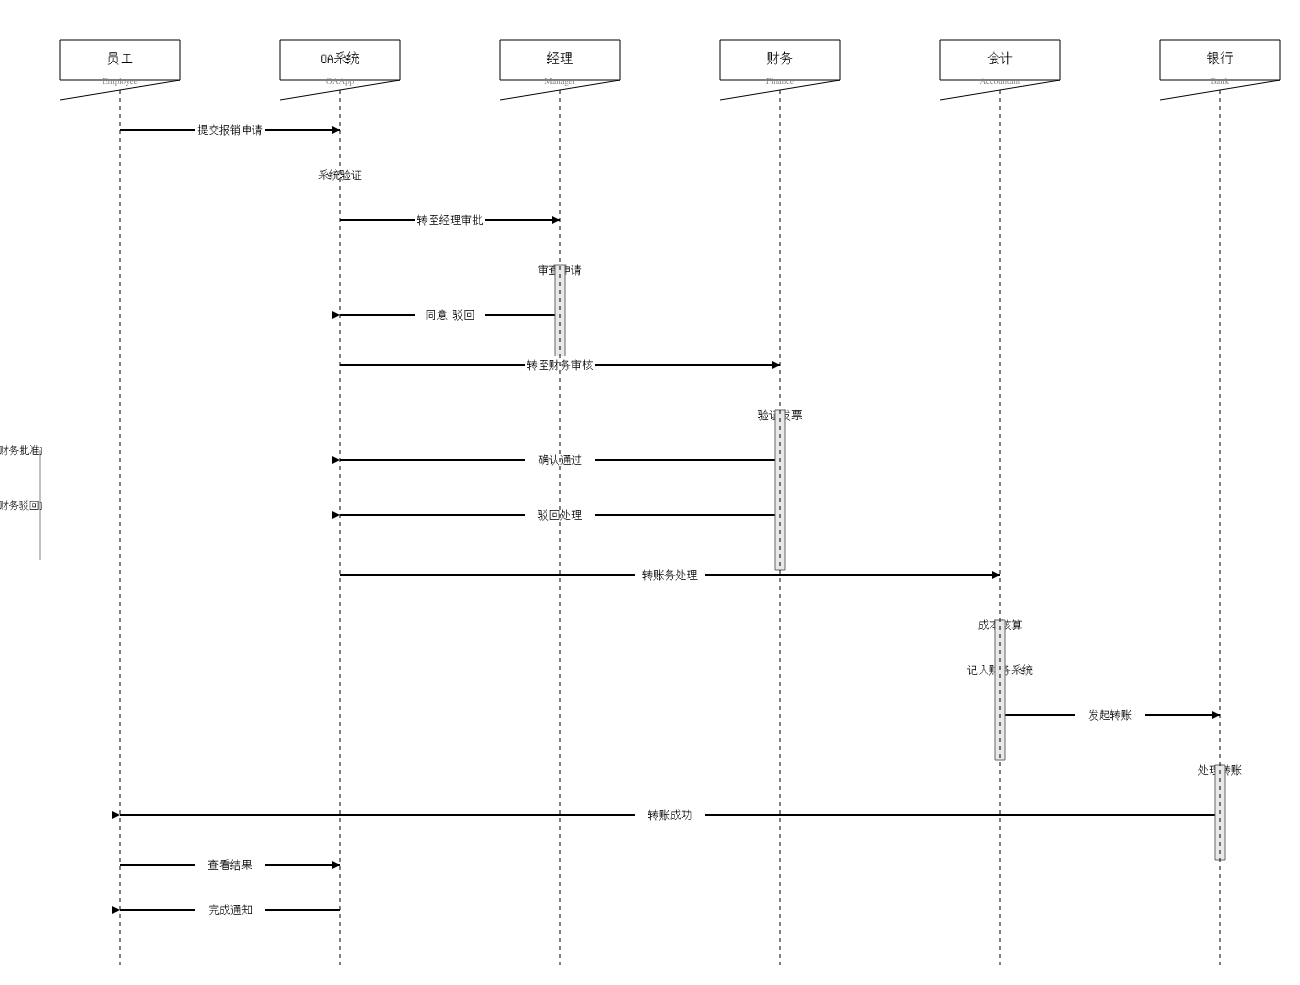
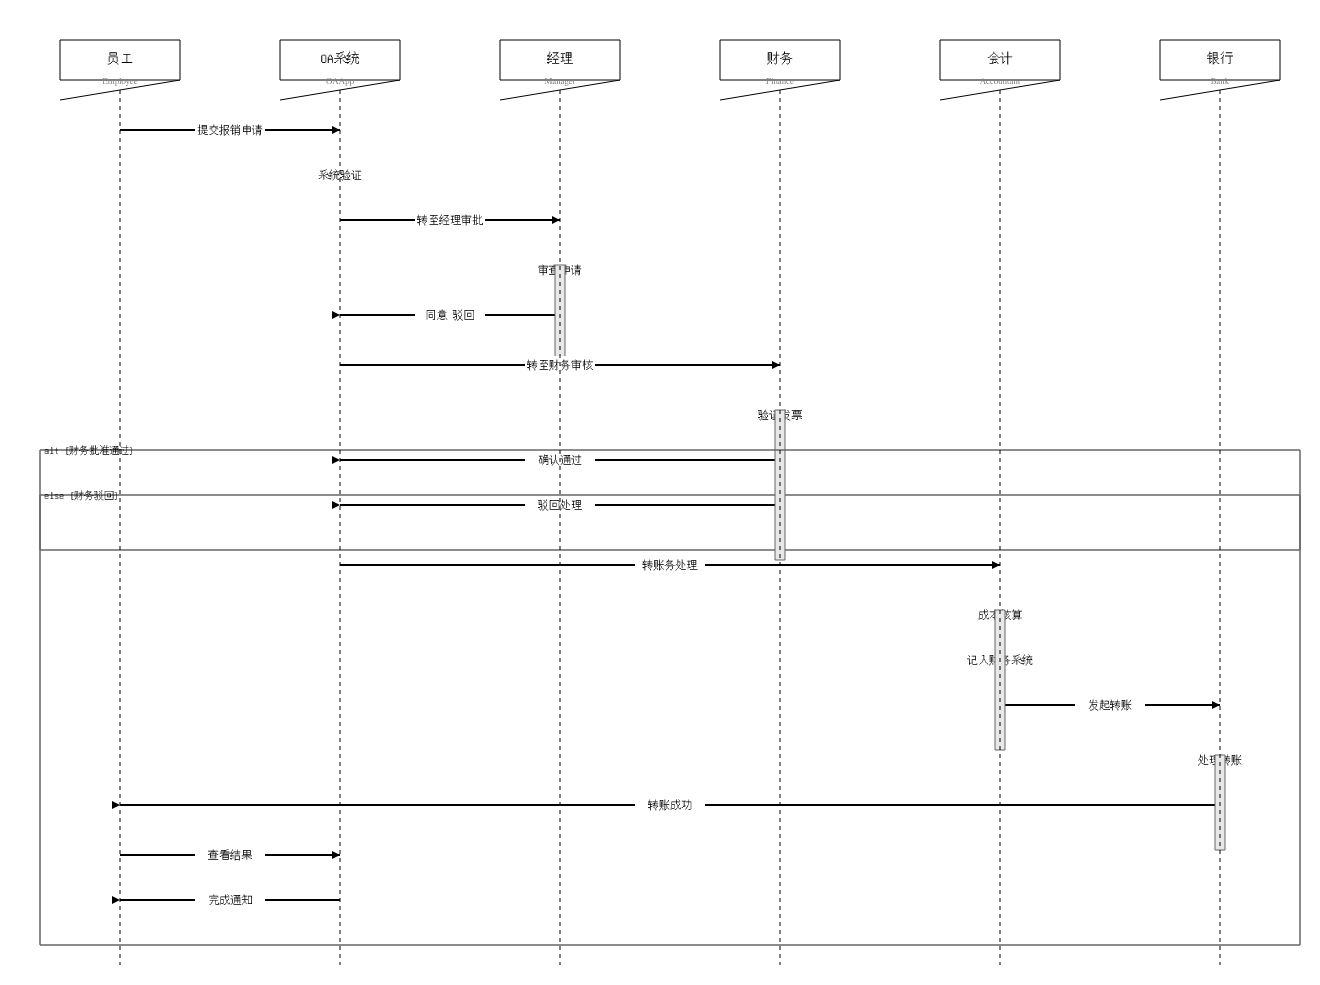
feat: 时序图条件框完整渲染
实现 Sequence Diagram 的 alt/else 条件框边界绘制：
- 完整的矩形框边界（上、下、左、右四条边）
- 横跨所有参与者的条件框
- 清晰的条件标签和分支说明
- 条件框内的分支分割线

改进细节：
- 条件框宽度动态计算（min/max 参与者位置）
- 使用 1.5px 边框宽度增强视觉对比
- 标签使用加粗字体便于识别

测试：OA 财务系统时序图
- alt 财务批准通过
- else 财务驳回

diff --git a/src/renderer/mod.rs b/src/renderer/mod.rs
@@ -2918,7 +2918,20 @@ fn process_seq_stmts(
                 statements,
             } => {
                 let block_start = *y_pos - 10.0;
-                let blk_x = start_x - 20.0;
+
+                // 计算条件框的左右边界（横跨所有参与者）
+                let blk_left = if let Some(min_x) = center_map.values().min_by(|a, b| a.partial_cmp(b).unwrap()) {
+                    min_x - box_width / 2.0 - 20.0
+                } else {
+                    start_x - 20.0
+                };
+
+                let blk_right = if let Some(max_x) = center_map.values().max_by(|a, b| a.partial_cmp(b).unwrap()) {
+                    max_x + box_width / 2.0 + 20.0
+                } else {
+                    start_x + box_width + 20.0
+                };
+
                 process_seq_stmts(
                     svg,
                     center_map,
@@ -2930,23 +2943,51 @@ fn process_seq_stmts(
                     start_x,
                 );
                 let block_end = *y_pos;
+
+                // 画完整的条件框：上、左、右、下四条边
+                // 上边
                 svg.add_line(
-                    blk_x,
+                    blk_left,
                     block_start,
-                    blk_x,
-                    block_end,
-                    "stroke:gray;stroke-width:1",
+                    blk_right,
+                    block_start,
+                    "stroke:#666;stroke-width:1.5",
                 );
+                // 左边
+                svg.add_line(
+                    blk_left,
+                    block_start,
+                    blk_left,
+                    block_end,
+                    "stroke:#666;stroke-width:1.5",
+                );
+                // 右边
+                svg.add_line(
+                    blk_right,
+                    block_start,
+                    blk_right,
+                    block_end,
+                    "stroke:#666;stroke-width:1.5",
+                );
+                // 下边
+                svg.add_line(
+                    blk_left,
+                    block_end,
+                    blk_right,
+                    block_end,
+                    "stroke:#666;stroke-width:1.5",
+                );
+
                 let block_label = if let Some(cond) = condition {
                     format!("{} [{}]", keyword, cond)
                 } else {
                     keyword.clone()
                 };
                 svg.add_text(
-                    start_x - 16.0,
+                    blk_left + 4.0,
                     block_start + 4.0,
                     &block_label,
-                    "text-anchor:end;font-size:10px;font-family:Arial",
+                    "text-anchor:start;font-size:10px;font-family:Arial;font-weight:bold",
                 );
                 *y_pos += 10.0;
             }
